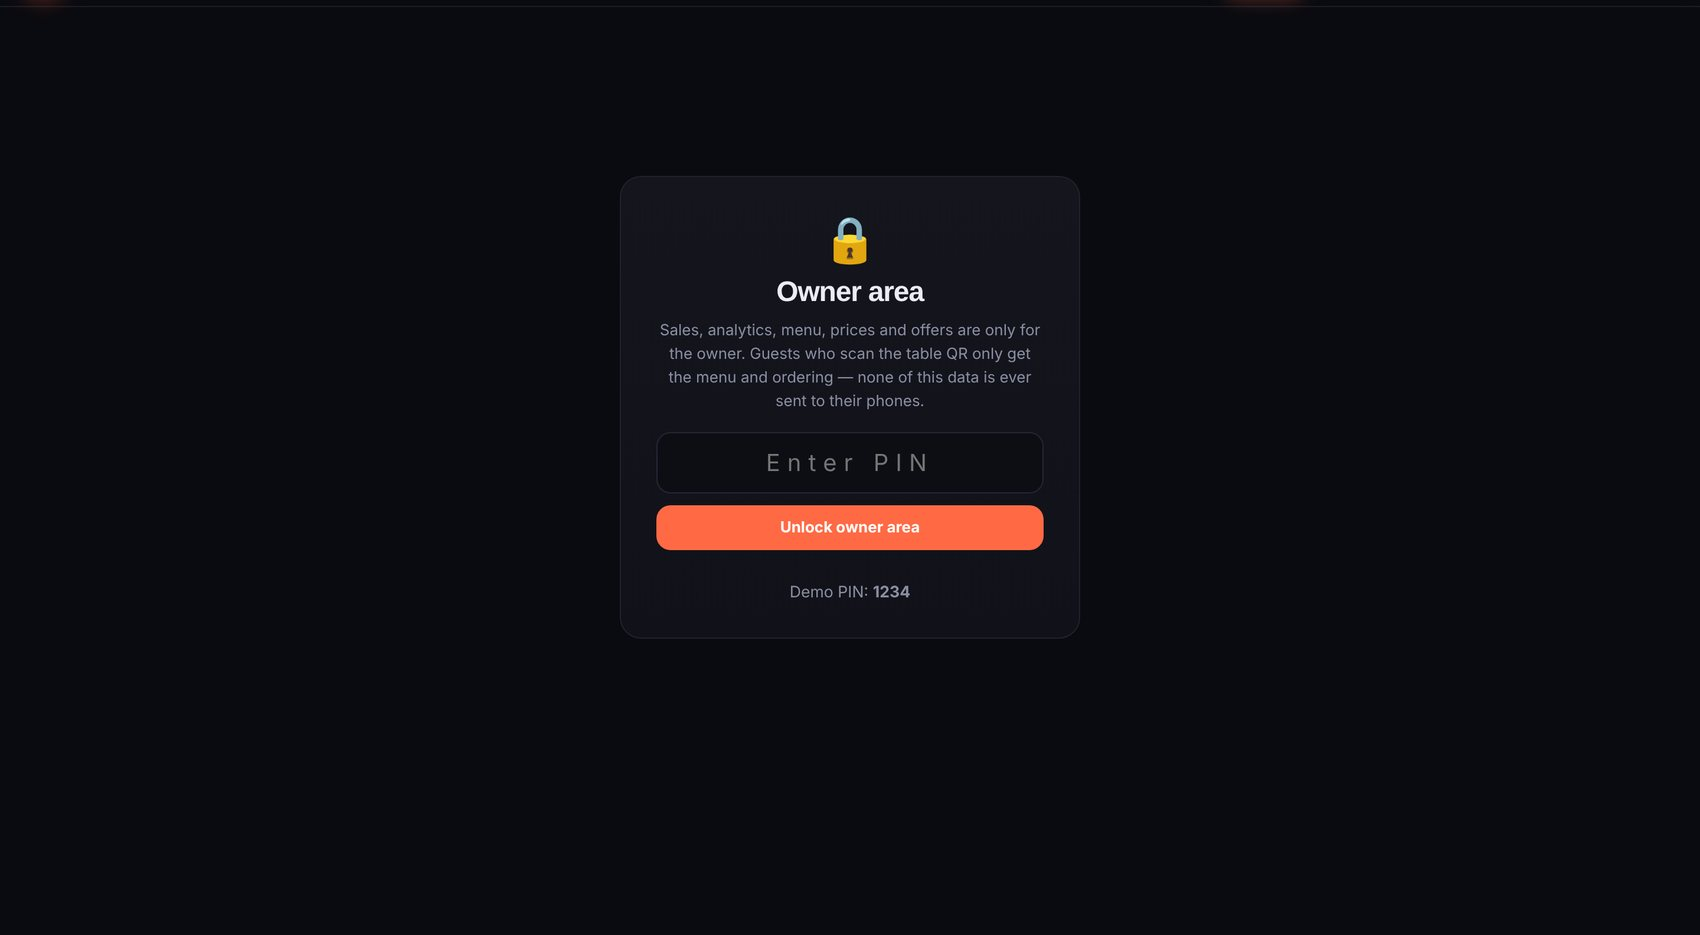
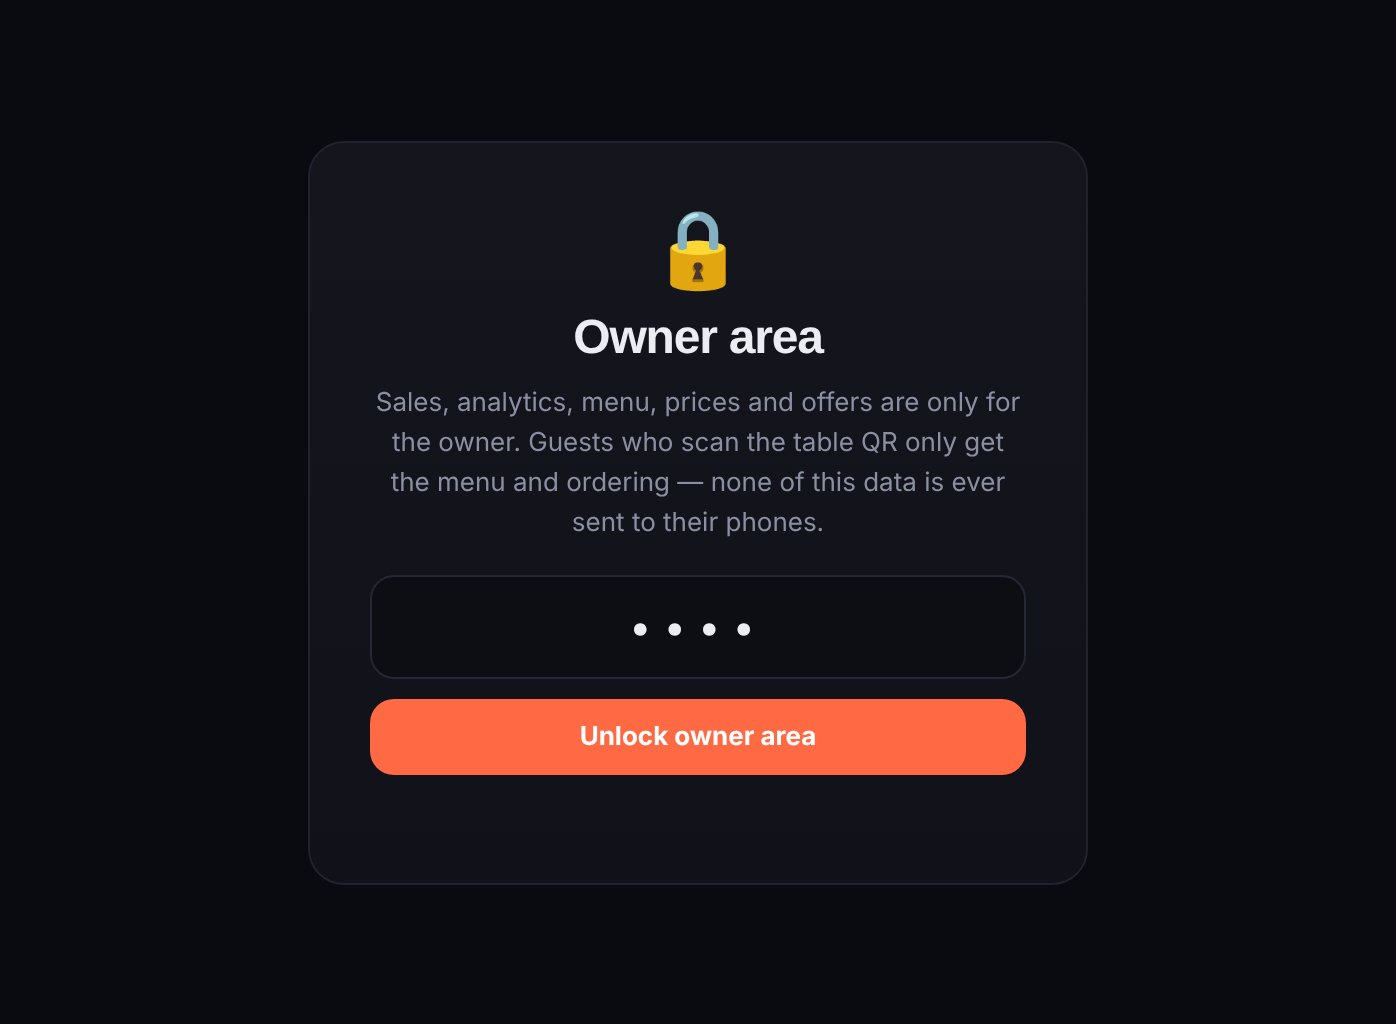
DineTable tour: retake owner login screenshot closer, without the demo PIN
Claude-Session: https://claude.ai/code/session_01Koqq3JnvrUbZBjPRHtXreZ

Changed region(s): [[0.2772, 0.1861, 0.7393, 0.6513], [0.2464, 0.6513, 0.7393, 0.7754], [0.7393, 0.0, 0.7701, 0.031]]

diff --git a/src/content/dinetable.js b/src/content/dinetable.js
@@ -5,7 +5,7 @@
 export const DT_IMG = (name) => `/dinetable/${name}.jpg`;
 
 /** Pixel sizes, so the page doesn't jump while screenshots load. */
-export const DT_SIZE = {'g00-tablet':[1700,1007],'g01-welcome':[600,1216],'g02-home':[600,1216],'g03-menu':[600,1216],'g04-dish':[600,1216],'g05-cart':[600,1216],'g06-orders':[600,1216],'g07-help':[600,1216],'g08-play':[600,1216],'g09-rewards':[600,1216],'g10-bill':[600,1216],'g11-pay':[600,1216],'g12-paid':[600,1216],'g13-support':[600,1216],'g14-privacy':[600,1216],'k01-kitchen':[1700,658],'o-analytics':[1700,1062],'o-analytics2':[1700,1062],'o-brand':[1700,1062],'o-brand2':[1700,1062],'o-editor':[1700,1062],'o-layout':[1700,1062],'o-menu':[1700,1062],'o-offers':[1700,1062],'o01-lock':[1700,935],'s01-floor':[1700,1062],'s02-floor-queue':[1700,1062]};
+export const DT_SIZE = {'g00-tablet':[1700,1007],'g01-welcome':[600,1216],'g02-home':[600,1216],'g03-menu':[600,1216],'g04-dish':[600,1216],'g05-cart':[600,1216],'g06-orders':[600,1216],'g07-help':[600,1216],'g08-play':[600,1216],'g09-rewards':[600,1216],'g10-bill':[600,1216],'g11-pay':[600,1216],'g12-paid':[600,1216],'g13-support':[600,1216],'g14-privacy':[600,1216],'k01-kitchen':[1700,658],'o-analytics':[1700,1062],'o-analytics2':[1700,1062],'o-brand':[1700,1062],'o-brand2':[1700,1062],'o-editor':[1700,1062],'o-layout':[1700,1062],'o-menu':[1700,1062],'o-offers':[1700,1062],'o01-lock':[1396,1024],'s01-floor':[1700,1062],'s02-floor-queue':[1700,1062]};
 
 const en = {
   card: {
